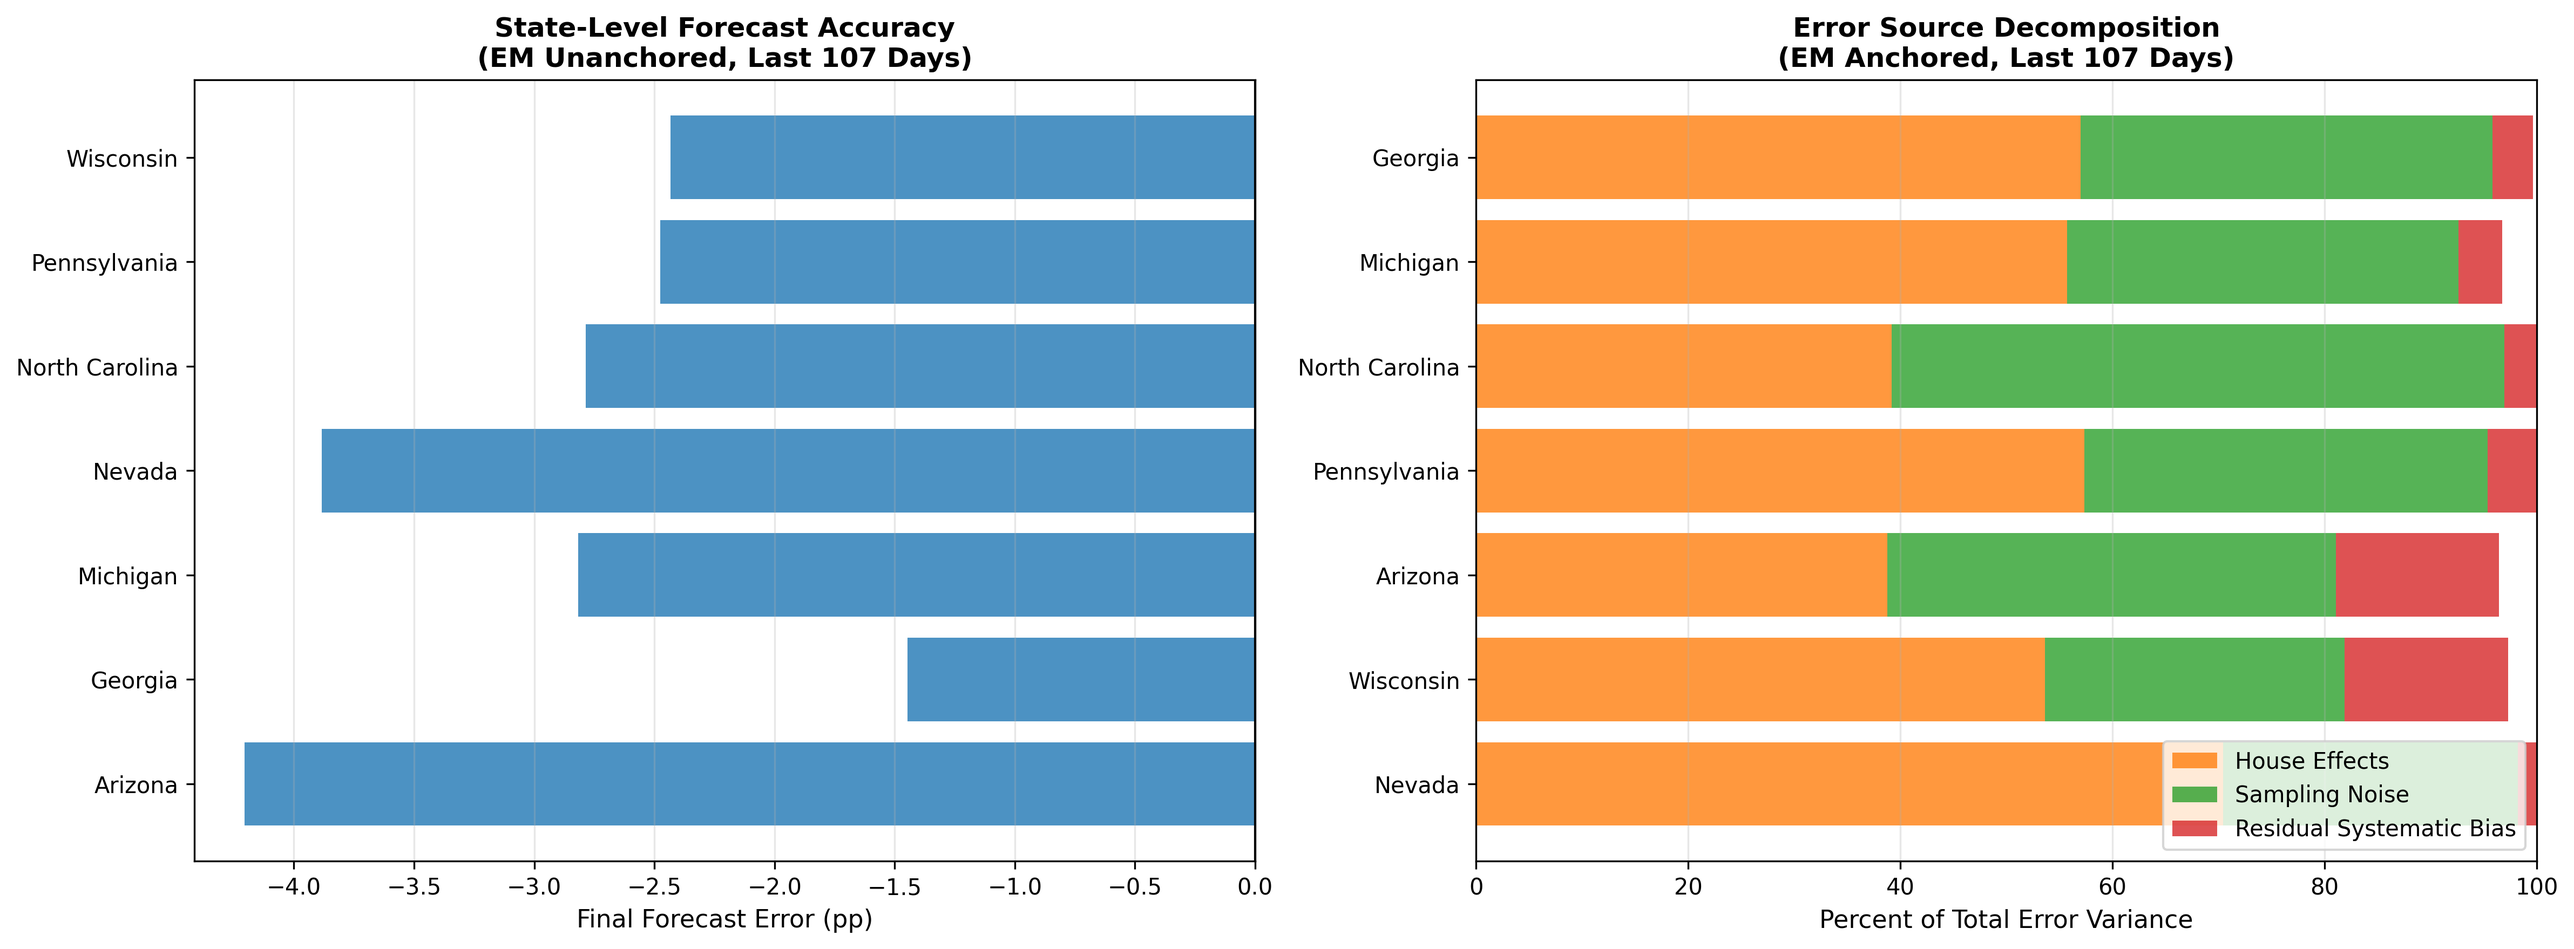
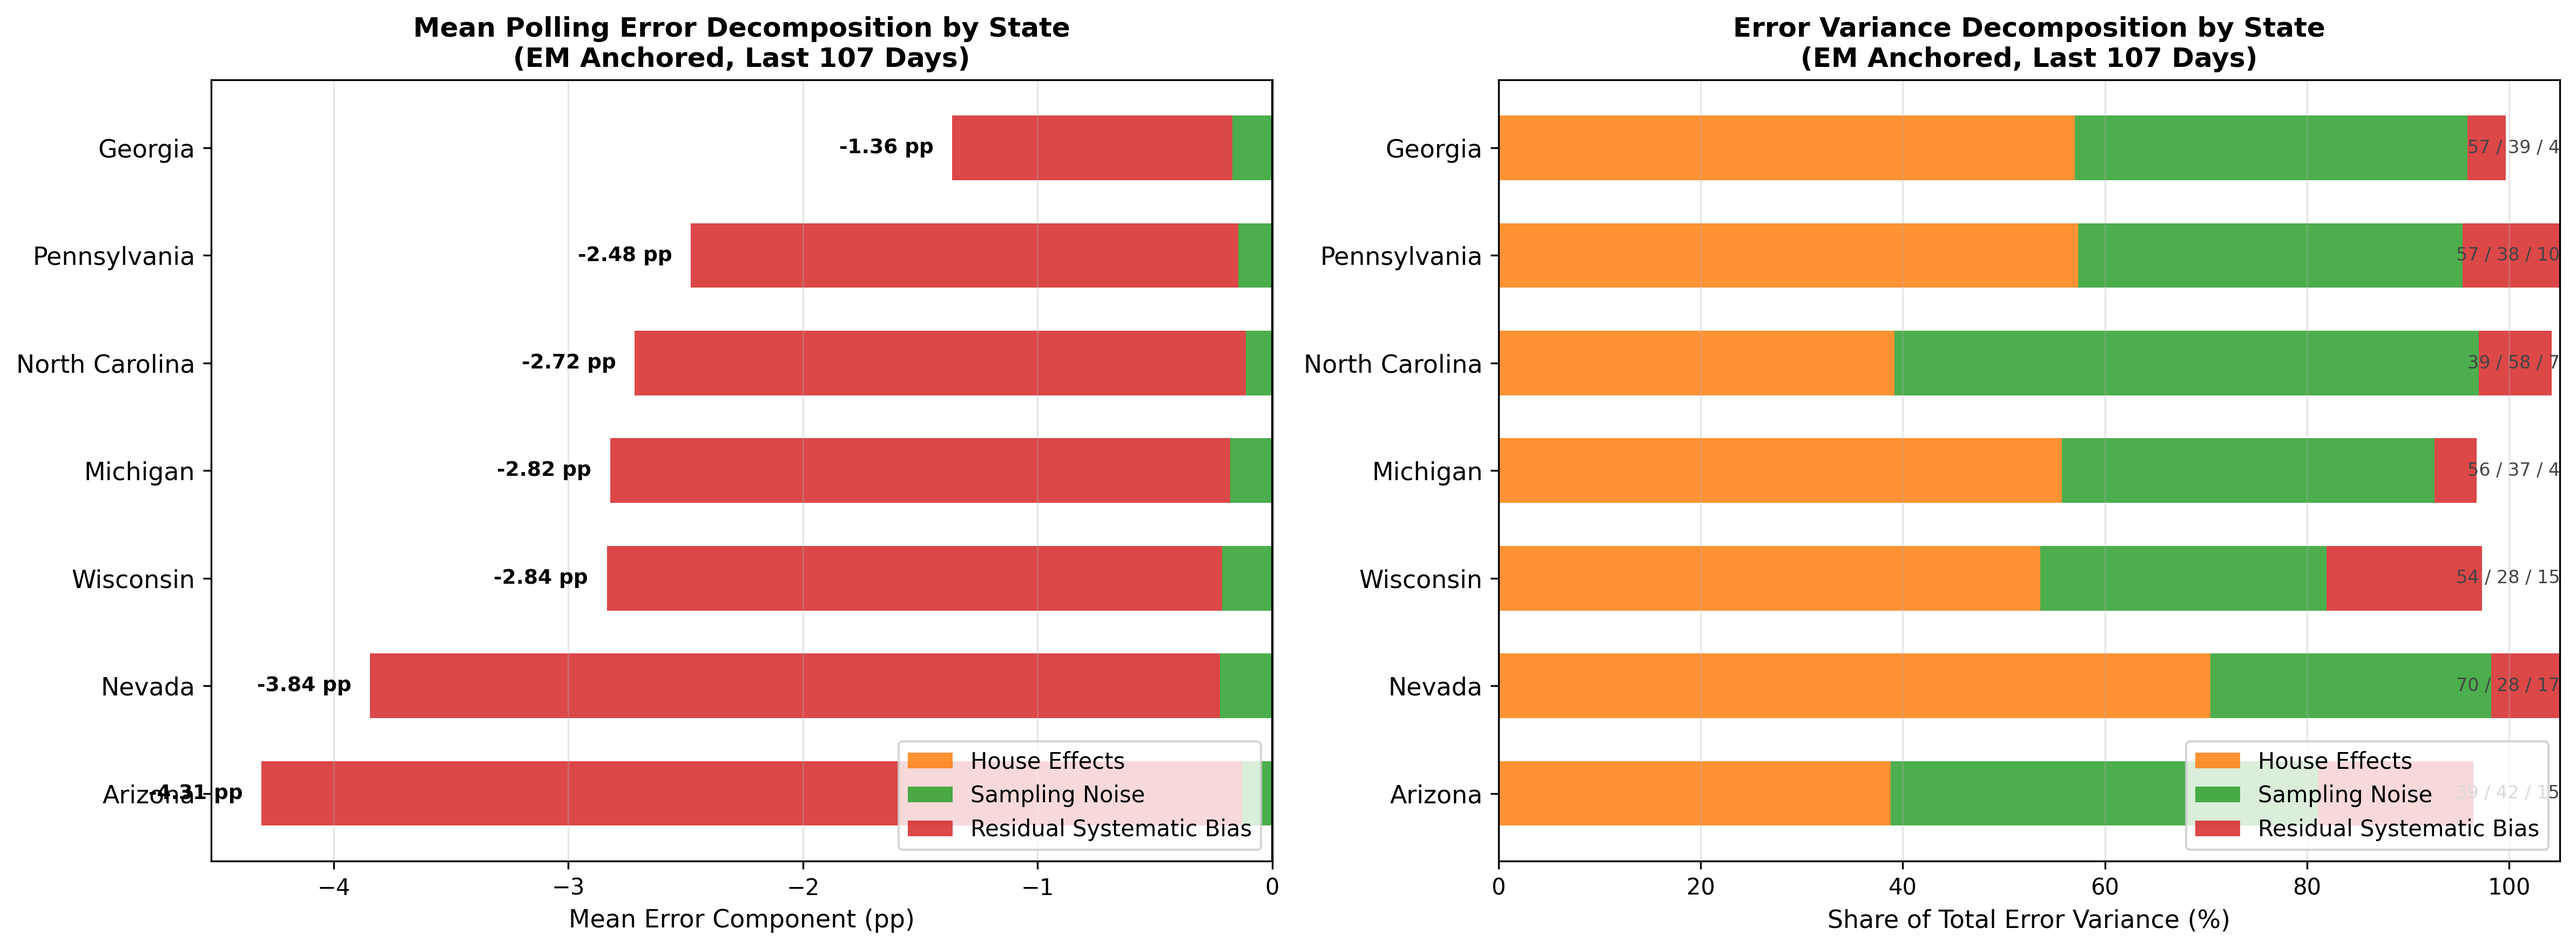
kalman plots updates

diff --git a/kalman_additional_plots.py b/kalman_additional_plots.py
@@ -132,101 +132,175 @@ def create_figure3_swing_states_bias_trajectories():
 
 
 ########################################################################
-# figure 4: swing states - forecast error + variance decomposition (two-panel)
+# figure 4: swing states - three-component bias decomposition (anchored)
 ########################################################################
 
 def create_figure4_swing_states_error_decomposition():
     """
-    left: final forecast error by state (unanchored). right: variance decomposition by state (anchored).
-    shows both how much states missed and what drove the errors.
+    two-panel figure showing where swing state polling error came from.
+
+    left panel: mean signed three-component decomposition by state (anchored em).
+        each bar shows mean total error broken into:
+            - mean house effect contribution (pollster composition bias)
+            - mean sampling noise (expected ~0, confirms random component washes out)
+            - mean residual systematic bias (industry-wide directional error)
+        the three components sum to mean total error by construction.
+        shows both magnitude, direction, and source of polling error.
+
+    right panel: variance decomposition by state (anchored em).
+        shows what share of cross-poll error variance was attributable to
+        each component. complements the left panel by showing whether
+        errors were consistent (high residual bias share) or noisy
+        (high sampling noise share).
+
+    all data from anchored em implementation, last 107 days.
+    no unanchored data used.
     """
     states = ['AZ', 'GA', 'MI', 'NV', 'NC', 'PA', 'WI']
     state_names = {
-        'AZ': 'Arizona', 'GA': 'Georgia', 'MI': 'Michigan', 
-        'NV': 'Nevada', 'NC': 'North Carolina', 
+        'AZ': 'Arizona', 'GA': 'Georgia', 'MI': 'Michigan',
+        'NV': 'Nevada', 'NC': 'North Carolina',
         'PA': 'Pennsylvania', 'WI': 'Wisconsin'
     }
-    
+
+    # colors for three components
+    color_he     = '#ff7f0e'   # orange: house effects
+    color_noise  = '#2ca02c'   # green:  sampling noise
+    color_resid  = '#d62728'   # red:    residual systematic bias
+
     # collect data
-    forecast_errors = {}
-    var_decomp = {}
-    
+    mean_decomp = {}
+    var_decomp  = {}
+
     for state in states:
-        # unanchored for forecast error
         try:
-            df_unanch = pd.read_csv(f'data/kalman_he_polls_{state}_unanchored_last_107_days.csv')
-            final_smoothed = df_unanch['smoothed'].iloc[-1]
-            true_margin = df_unanch['true_margin'].iloc[0]
-            forecast_errors[state] = final_smoothed - true_margin
-        except:
-            forecast_errors[state] = np.nan
-        
-        # anchored for variance decomposition
-        try:
-            df_anch = pd.read_csv(f'data/kalman_he_polls_{state}_anchored_last_107_days.csv')
-            var_total = df_anch['total_error'].var()
-            var_he = df_anch['house_effect_assigned'].var()
-            var_noise = df_anch['sampling_noise'].var()
-            var_resid = df_anch['residual_systematic_bias'].var()
-            
-            var_decomp[state] = {
-                'house': 100 * var_he / var_total,
-                'noise': 100 * var_noise / var_total,
-                'residual': 100 * var_resid / var_total
+            df = pd.read_csv(
+                f'data/kalman_he_polls_{state}_anchored_last_107_days.csv'
+            )
+
+            # mean signed components
+            mean_he    = df['house_effect_assigned'].mean()
+            mean_noise = df['sampling_noise'].mean()
+            mean_resid = df['residual_systematic_bias'].mean()
+            mean_total = df['total_error'].mean()
+
+            mean_decomp[state] = {
+                'house':   mean_he,
+                'noise':   mean_noise,
+                'residual': mean_resid,
+                'total':   mean_total,
             }
-        except:
-            var_decomp[state] = {'house': np.nan, 'noise': np.nan, 'residual': np.nan}
-    
-    # create two-panel figure
-    fig, (ax1, ax2) = plt.subplots(1, 2, figsize=(16, 6))
-    
-    # left panel: forecast error
-    errors = [forecast_errors[s] for s in states]
-    state_labels = [state_names[s] for s in states]
-    colors = ['#d62728' if e > 0 else '#1f77b4' for e in errors]
-    
-    y_pos = np.arange(len(states))
-    ax1.barh(y_pos, errors, color=colors, alpha=0.8)
-    ax1.set_yticks(y_pos)
-    ax1.set_yticklabels(state_labels)
-    ax1.axvline(0, color='black', linewidth=1)
-    ax1.set_xlabel('Final Forecast Error (pp)', fontsize=11)
-    ax1.set_title('State-Level Forecast Accuracy\n(EM Unanchored, Last 107 Days)', 
-                  fontsize=12, fontweight='bold')
-    ax1.grid(True, alpha=0.3, axis='x')
-    
-    # right panel: variance decomposition
-    house_pcts = [var_decomp[s]['house'] for s in states]
-    noise_pcts = [var_decomp[s]['noise'] for s in states]
-    resid_pcts = [var_decomp[s]['residual'] for s in states]
-    
-    # sort by residual systematic bias (descending)
-    sorted_indices = np.argsort(resid_pcts)[::-1]
-    states_sorted = [states[i] for i in sorted_indices]
-    state_labels_sorted = [state_names[s] for s in states_sorted]
-    house_sorted = [house_pcts[i] for i in sorted_indices]
-    noise_sorted = [noise_pcts[i] for i in sorted_indices]
-    resid_sorted = [resid_pcts[i] for i in sorted_indices]
-    
+
+            # variance shares
+            var_total = df['total_error'].var()
+            var_he    = df['house_effect_assigned'].var()
+            var_noise = df['sampling_noise'].var()
+            var_resid = df['residual_systematic_bias'].var()
+
+            var_decomp[state] = {
+                'house':    100 * var_he    / var_total,
+                'noise':    100 * var_noise / var_total,
+                'residual': 100 * var_resid / var_total,
+            }
+
+        except FileNotFoundError:
+            print(f"Warning: data not found for {state}")
+            continue
+
+    # sort states by mean total error (most negative first)
+    states_sorted = sorted(
+        [s for s in states if s in mean_decomp],
+        key=lambda s: mean_decomp[s]['total']
+    )
+    state_labels = [state_names[s] for s in states_sorted]
     y_pos = np.arange(len(states_sorted))
-    
-    ax2.barh(y_pos, house_sorted, color='#ff7f0e', alpha=0.8, label='House Effects')
-    ax2.barh(y_pos, noise_sorted, left=house_sorted, color='#2ca02c', alpha=0.8, label='Sampling Noise')
-    ax2.barh(y_pos, resid_sorted, left=np.array(house_sorted) + np.array(noise_sorted), 
-            color='#d62728', alpha=0.8, label='Residual Systematic Bias')
-    
+
+    fig, (ax1, ax2) = plt.subplots(1, 2, figsize=(16, 6))
+
+    # ----------------------------------------------------------------
+    # left panel: mean signed decomposition
+    # stacked horizontal bars; components can be negative so we
+    # handle positive and negative segments separately to stack correctly
+    # ----------------------------------------------------------------
+
+    he_vals    = np.array([mean_decomp[s]['house']    for s in states_sorted])
+    noise_vals = np.array([mean_decomp[s]['noise']    for s in states_sorted])
+    resid_vals = np.array([mean_decomp[s]['residual'] for s in states_sorted])
+    total_vals = np.array([mean_decomp[s]['total']    for s in states_sorted])
+
+    # plot each component as a horizontal bar starting from its cumulative left edge
+    # components are signed so we stack them additively left to right
+    left_he    = np.zeros(len(states_sorted))
+    left_noise = he_vals
+    left_resid = he_vals + noise_vals
+
+    ax1.barh(y_pos, he_vals,    left=left_he,    color=color_he,
+             alpha=0.85, label='House Effects', height=0.6)
+    ax1.barh(y_pos, noise_vals, left=left_noise, color=color_noise,
+             alpha=0.85, label='Sampling Noise', height=0.6)
+    ax1.barh(y_pos, resid_vals, left=left_resid, color=color_resid,
+             alpha=0.85, label='Residual Systematic Bias', height=0.6)
+
+    # annotate total error at end of bar
+    for i, total in enumerate(total_vals):
+        offset = 0.08 if total >= 0 else -0.08
+        ha     = 'left' if total >= 0 else 'right'
+        ax1.text(total + offset, y_pos[i], f'{total:.2f} pp',
+                 va='center', ha=ha, fontsize=9, fontweight='bold')
+
+    ax1.axvline(0, color='black', linewidth=1)
+    ax1.set_yticks(y_pos)
+    ax1.set_yticklabels(state_labels, fontsize=11)
+    ax1.set_xlabel('Mean Error Component (pp)', fontsize=11)
+    ax1.set_title(
+        'Mean Polling Error Decomposition by State\n'
+        '(EM Anchored, Last 107 Days)',
+        fontsize=12, fontweight='bold'
+    )
+    ax1.legend(loc='lower right', fontsize=10)
+    ax1.grid(True, alpha=0.3, axis='x')
+
+    # ----------------------------------------------------------------
+    # right panel: variance decomposition (% of total error variance)
+    # ----------------------------------------------------------------
+
+    house_pcts = [var_decomp[s]['house']    for s in states_sorted]
+    noise_pcts = [var_decomp[s]['noise']    for s in states_sorted]
+    resid_pcts = [var_decomp[s]['residual'] for s in states_sorted]
+
+    ax2.barh(y_pos, house_pcts, color=color_he,
+             alpha=0.85, label='House Effects', height=0.6)
+    ax2.barh(y_pos, noise_pcts, left=house_pcts, color=color_noise,
+             alpha=0.85, label='Sampling Noise', height=0.6)
+    ax2.barh(y_pos, resid_pcts,
+             left=np.array(house_pcts) + np.array(noise_pcts),
+             color=color_resid, alpha=0.85,
+             label='Residual Systematic Bias', height=0.6)
+
     ax2.set_yticks(y_pos)
-    ax2.set_yticklabels(state_labels_sorted)
-    ax2.set_xlabel('Percent of Total Error Variance', fontsize=11)
-    ax2.set_title('Error Source Decomposition\n(EM Anchored, Last 107 Days)', 
-                  fontsize=12, fontweight='bold')
+    ax2.set_yticklabels(state_labels, fontsize=11)
+    ax2.set_xlabel('Share of Total Error Variance (%)', fontsize=11)
+    ax2.set_title(
+        'Error Variance Decomposition by State\n'
+        '(EM Anchored, Last 107 Days)',
+        fontsize=12, fontweight='bold'
+    )
     ax2.legend(loc='lower right', fontsize=10)
-    ax2.set_xlim([0, 100])
+    ax2.set_xlim([0, 105])
     ax2.grid(True, alpha=0.3, axis='x')
-    
+
+    # annotate variance shares
+    for i, (h, n, r) in enumerate(zip(house_pcts, noise_pcts, resid_pcts)):
+        ax2.text(105, y_pos[i], f'{h:.0f} / {n:.0f} / {r:.0f}',
+                 va='center', ha='right', fontsize=8, color='#444444')
+
     plt.tight_layout()
-    plt.savefig('figures/kalman_swing_states_forecast_error_and_variance_decomposition.png', dpi=300, bbox_inches='tight')
+    plt.savefig(
+        'figures/kalman_swing_states_forecast_error_and_variance_decomposition.png',
+        dpi=300, bbox_inches='tight'
+    )
     plt.close()
+    print("Figure 4 saved.")
 
 
 ########################################################################
@@ -751,7 +825,6 @@ def create_table3_swing_states_summary():
                 'Mean Residual Bias (pp)': df_anch['residual_systematic_bias'].mean(),
                 '$\\sigma^2_u$ (per day)': df_anch['sigma2_u'].iloc[0],
                 'var(HE)/var(Total) \\%': 100 * var_he / var_total,
-                'Forecast Error (pp)': df_unanch['smoothed'].iloc[-1] - df_unanch['true_margin'].iloc[0]
             }
             results.append(row)
             
@@ -759,12 +832,6 @@ def create_table3_swing_states_summary():
             continue
     
     table3 = pd.DataFrame(results)
-    
-    # add rank by forecast error magnitude
-    table3['Rank'] = table3['Forecast Error (pp)'].abs().rank(ascending=True).astype(int)
-    
-    # sort by forecast error magnitude
-    table3 = table3.sort_values('Forecast Error (pp)', key=abs, ascending=False)
     
     # format
     table3_formatted = table3.round({
@@ -775,14 +842,13 @@ def create_table3_swing_states_summary():
         'Mean Residual Bias (pp)': 2,
         '$\\sigma^2_u$ (per day)': 6,
         'var(HE)/var(Total) \\%': 1,
-        'Forecast Error (pp)': 2
     })
     
     # save
     table3_formatted.to_csv('output/kalman/swing_states_polling_quality_and_forecast_performance.csv', index=False)
     
     latex_str = table3_formatted.to_latex(index=False, escape=False,
-                                          caption='Swing State Summary: Polling Quality and Forecast Performance',
+                                          caption='Swing State Summary (Poll-Adjusted, Anchored, 107 Days)',
                                           label='tab:swing_states_summary')
     with open('output/kalman/swing_states_polling_quality_and_forecast_performance.tex', 'w') as f:
         f.write(latex_str)

diff --git a/output/kalman/swing_states_polling_quality_and_forecast_performance.tex b/output/kalman/swing_states_polling_quality_and_forecast_performance.tex
@@ -1,17 +1,17 @@
 \begin{table}
-\caption{Swing State Summary: Polling Quality and Forecast Performance}
+\caption{Swing State Summary (Poll-Adjusted, Anchored, 107 Days)}
 \label{tab:swing_states_summary}
-\begin{tabular}{lrrrrrrrrrr}
+\begin{tabular}{lrrrrrrrr}
 \toprule
-State & N Polls & True Margin (pp) & Mean Poll Margin (pp) & Mean Total Error (pp) & Mean |House Effect| (pp) & Mean Residual Bias (pp) & $\sigma^2_u$ (per day) & var(HE)/var(Total) \% & Forecast Error (pp) & Rank \\
+State & N Polls & True Margin (pp) & Mean Poll Margin (pp) & Mean Total Error (pp) & Mean |House Effect| (pp) & Mean Residual Bias (pp) & $\sigma^2_u$ (per day) & var(HE)/var(Total) \% \\
 \midrule
-Arizona & 156 & 5.530000 & 1.220000 & -4.310000 & 1.360000 & -4.180000 & 0.308069 & 38.800000 & -4.200000 & 7 \\
-Nevada & 115 & 3.140000 & -0.700000 & -3.840000 & 1.890000 & -3.620000 & 0.288396 & 70.400000 & -3.880000 & 6 \\
-Michigan & 184 & 1.410000 & -1.410000 & -2.820000 & 1.740000 & -2.640000 & 0.241374 & 55.700000 & -2.820000 & 5 \\
-North Carolina & 157 & 3.210000 & 0.490000 & -2.720000 & 0.970000 & -2.600000 & 0.162550 & 39.200000 & -2.780000 & 4 \\
-Pennsylvania & 224 & 1.710000 & -0.770000 & -2.480000 & 1.460000 & -2.330000 & 0.096656 & 57.300000 & -2.480000 & 3 \\
-Wisconsin & 181 & 0.860000 & -1.980000 & -2.840000 & 1.530000 & -2.620000 & 0.121824 & 53.600000 & -2.430000 & 2 \\
-Georgia & 150 & 2.190000 & 0.830000 & -1.360000 & 1.330000 & -1.190000 & 0.051296 & 57.000000 & -1.450000 & 1 \\
+Arizona & 156 & 5.530000 & 1.220000 & -4.310000 & 1.360000 & -4.180000 & 0.308069 & 38.800000 \\
+Georgia & 150 & 2.190000 & 0.830000 & -1.360000 & 1.330000 & -1.190000 & 0.051296 & 57.000000 \\
+Michigan & 184 & 1.410000 & -1.410000 & -2.820000 & 1.740000 & -2.640000 & 0.241374 & 55.700000 \\
+Nevada & 115 & 3.140000 & -0.700000 & -3.840000 & 1.890000 & -3.620000 & 0.288396 & 70.400000 \\
+North Carolina & 157 & 3.210000 & 0.490000 & -2.720000 & 0.970000 & -2.600000 & 0.162550 & 39.200000 \\
+Pennsylvania & 224 & 1.710000 & -0.770000 & -2.480000 & 1.460000 & -2.330000 & 0.096656 & 57.300000 \\
+Wisconsin & 181 & 0.860000 & -1.980000 & -2.840000 & 1.530000 & -2.620000 & 0.121824 & 53.600000 \\
 \bottomrule
 \end{tabular}
 \end{table}
